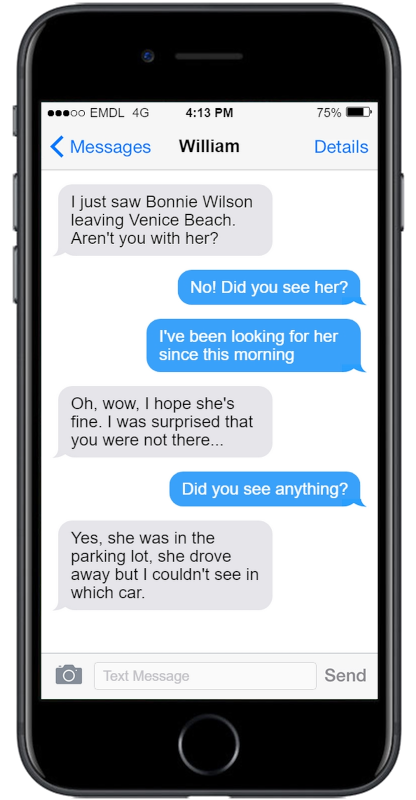
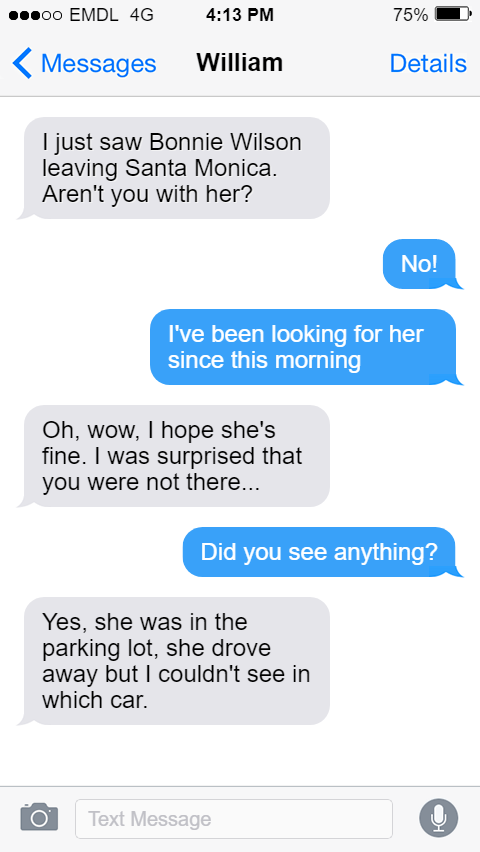
Changed text + Added stars on last page + Changed mobile image

diff --git a/assets/pages/10_endgame.html b/assets/pages/10_endgame.html
@@ -15,7 +15,27 @@
         <h1 class="congrats">CONGRATULATIONS</h1>
     </div>
     <div class="backgroundContainer">
-        <h2>You found Bonnie Wilson!</h2>
+        <div class="container-fluid no-gutters row mt-5">
+            <div class="col-1"></div>
+            <div class="col-2 container  no-gutters">
+                <img class="col-12" src="../pictures/star.svg" alt="Acquired star">
+            </div>
+            <div class="col-2 container  no-gutters">
+                <img class="col-12" src="../pictures/star.svg" alt="Acquired star">
+            </div>
+            <div class="col-2 container  no-gutters">
+                <img class="col-12" src="../pictures/star.svg" alt="Acquired star">
+            </div>
+            <div class="col-2 starContainer container no-gutters">
+                <img class="col-12" src="../pictures/star.svg" alt="Acquired star">
+            </div>
+            <div class="col-2 container  no-gutters">
+                <img class="col-12" src="../pictures/star_black.svg" alt="Acquired star">
+                <img class="popingStar" src="../pictures/star.svg" alt="Acquired star">
+            </div>
+            <div class="col-1"></div>
+        </div>
+        <h2>You have found Bonnie Wilson!</h2>
         <h2>Here's what she has to say:</h2>
         <div class="container-fluid row no-gutters mt-5 mb-2">
             <div class="col-0 col-lg-3"></div>

diff --git a/assets/pages/5_monica.html b/assets/pages/5_monica.html
@@ -20,7 +20,7 @@
             <div class="col-12 container">
                 <div class="row">
                     <div class="col-0 col-lg-2 col-xl-3"></div>
-                    <img class="col-12 col-lg-8 col-xl-6" src="../pictures/mobile.png" alt="texto">
+                    <img class="col-12 col-lg-8 col-xl-6" src="../pictures/mobile_text.png" alt="texto">
                     <div class="col-0 col-lg-2 col-xl-3"></div>
                 </div>
             </div>
@@ -52,7 +52,7 @@
         </div>
         <footer class="credits">
             <p>Crédits images : bilanol/AdobeStock, Suriyo/AdobeStock, Marc Xavier/AdobeStock, Coolimages Co/AdobeStock,
-                Yuri Bizgaimer/AdobeStock, Roberto Gennaro/iStock, Serega/iStock, kulikov922 / AdobeStock.</p>
+                Yuri Bizgaimer/AdobeStock, Roberto Gennaro/iStock, Serega/iStock, kulikov922/AdobeStock.</p>
         </footer>
     </div>
 

diff --git a/assets/pages/3_union.html b/assets/pages/3_union.html
@@ -19,7 +19,7 @@
         <div class="container-fluid row no-gutters mt-5 mb-2">  
             <img class="col-12" src="../pictures/metro_map.png" alt="Plan du métro">
         </div>
-        <p class="paragraph mb-2">Which metro station was Bonnie Wilson's destination?</p>
+        <p class="paragraph mb-2">Which metro station is Bonnie going to?</p>
 
         <div class="formContainer">
             <input id="unionAnswer" class="answerInput" type="text">

diff --git a/style.css b/style.css
@@ -325,12 +325,12 @@ footer p {
 }
 
 .credits h3 {
-    font-size: 1rem;
+    font-size: 0.7rem;
 }
 
 .credits p {
     text-align: left;
-    font-size: 0.8rem;
+    font-size: 0.6rem;
 }
 
 .congrats {
